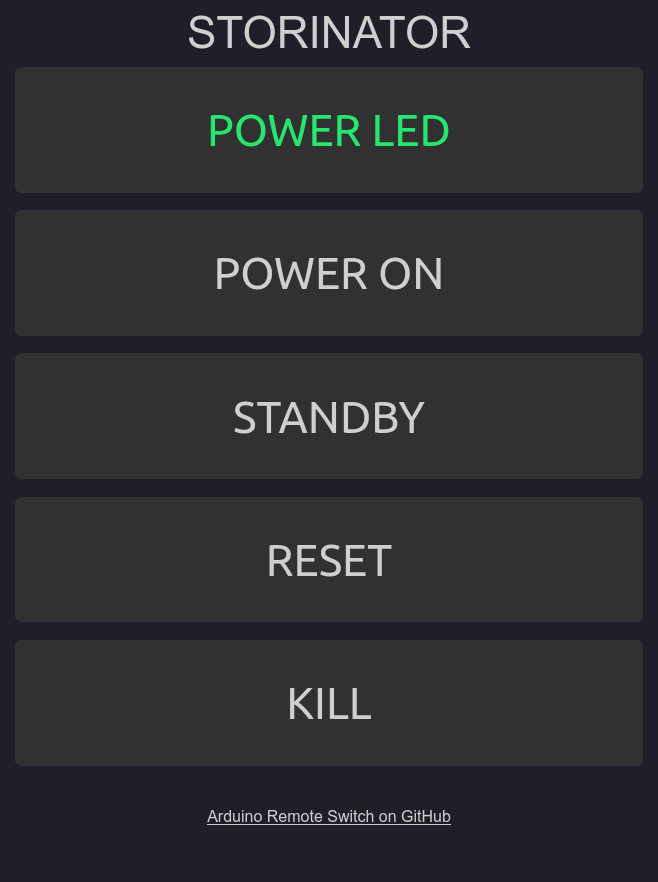
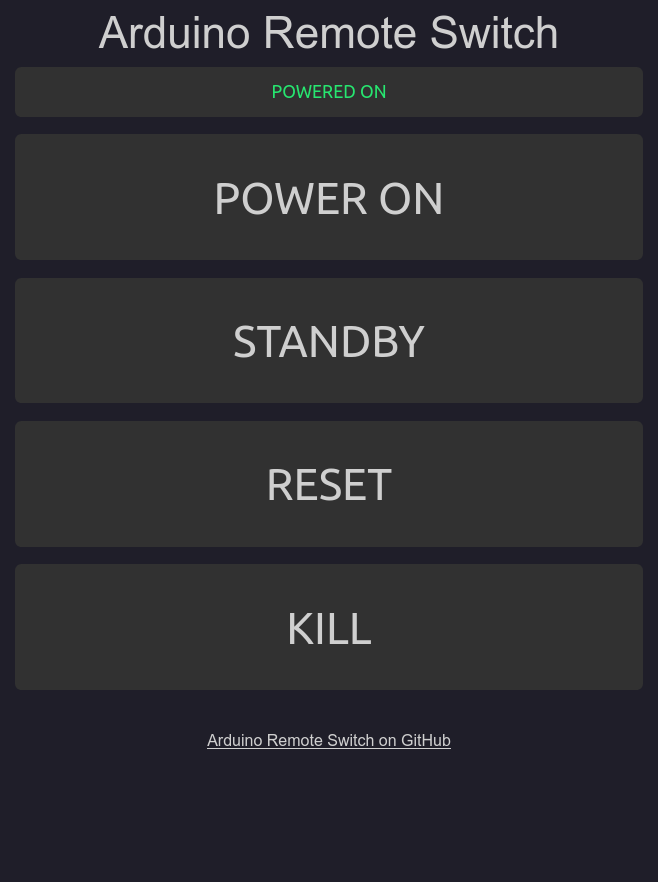
Make status bar smaller and change text depending on status

diff --git a/web/src/index.htm b/web/src/index.htm
@@ -10,11 +10,11 @@
     <div class="heading">STORINATOR</div>
 
     <button
-      id="powerLed"
+      id="powerStatus"
       type="button"
       class="button"
       disabled
-      style="color: #b413ff"
+      style="height: 5%; font-size: 2vh; color: #b413ff"
     >
       NO CONNECTION
     </button>
@@ -122,17 +122,17 @@
         requestStatus(REQ_POWER_STATUS)
       }, 3000)
 
-      function togglePowerLedColor(state) {
-        const powerLed = document.getElementById('powerLed')
+      function togglePowerStatus(state) {
+        const powerStatus = document.getElementById('powerStatus')
         if (state == 'on') {
-          powerLed.textContent = 'POWER LED'
-          powerLed.style.color = '#27e670'
+          powerStatus.textContent = 'POWERED ON'
+          powerStatus.style.color = '#27e670'
         } else if (state == 'off') {
-          powerLed.textContent = 'POWER LED'
-          powerLed.style.color = '#eb1e8f'
+          powerStatus.textContent = 'POWERED OFF'
+          powerStatus.style.color = '#eb1e8f'
         } else {
-          powerLed.style.color = '#b413ff'
-          powerLed.textContent = 'NO CONNECTION'
+          powerStatus.style.color = '#b413ff'
+          powerStatus.textContent = 'NO CONNECTION'
         }
       }
 
@@ -160,16 +160,16 @@
               typeof this.response === 'string'
             ) {
               if (this.response.toString().includes(REQ_POWER_STATUS + ':on'))
-                togglePowerLedColor('on')
-              else togglePowerLedColor('off')
+                togglePowerStatus('on')
+              else togglePowerStatus('off')
             } else if (this.readyState == 4) {
-              togglePowerLedColor('nocon')
+              togglePowerStatus('nocon')
               console.log('No connection to server.')
             }
           }
         }
         xhttp.onerror = function () {
-          togglePowerLedColor('nocon')
+          togglePowerStatus('nocon')
           console.log('No connection to server.')
         }
         xhttp.open('GET', request, true)

diff --git a/README.md b/README.md
@@ -1,19 +1,22 @@
-# Arduino remote switch
-Remote switch to turn on PC.
+# Arduino Remote Switch
+
+Remote switch to turn on, off or reset PC.
 
 ![Web interface](./web.png)
 
 ## Getting started
 
 ### Hardware
+
 - Arduino Uno
 - Arduino Ethernet Shield
 - Ethernet cable
 - Micro SD card
-- Wires 
-// TODO how many wires?
+- Wires
+  // TODO how many wires?
 
 ### Software
+
 - Arduino IDE
 
 ### Steps
@@ -21,10 +24,9 @@ Remote switch to turn on PC.
 > **Disclaimer:** Follow these instruction at your own risk.
 
 1. Format SD card to FAT16.
-2. Store website (content of `web/src/`) on SD card. 
+2. Store website (content of `web/src/`) on SD card.
 3. Put SD card into ethernet shield.
-5. Upload server program `server.ino` to Arduino via Arduino IDE.
-6. Turn off Arduino and PC and detach from power. 
-7. Wire cables between your PC and Arduino like following: 
-TODO Picture wiring of schematic
-
+4. Upload server program `server.ino` to Arduino via Arduino IDE.
+5. Turn off Arduino and PC and detach from power.
+6. Wire cables between your PC and Arduino like following:
+   TODO Picture wiring of schematic
